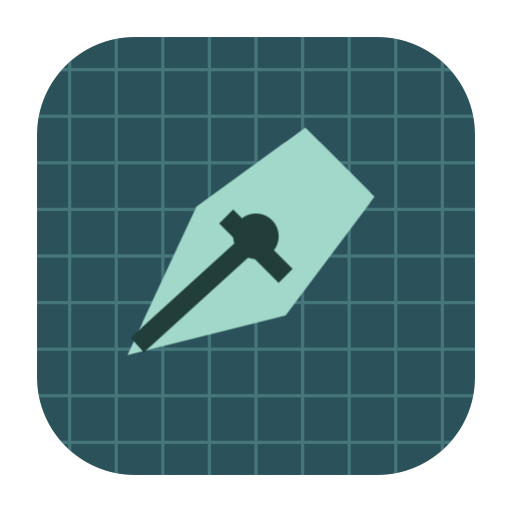
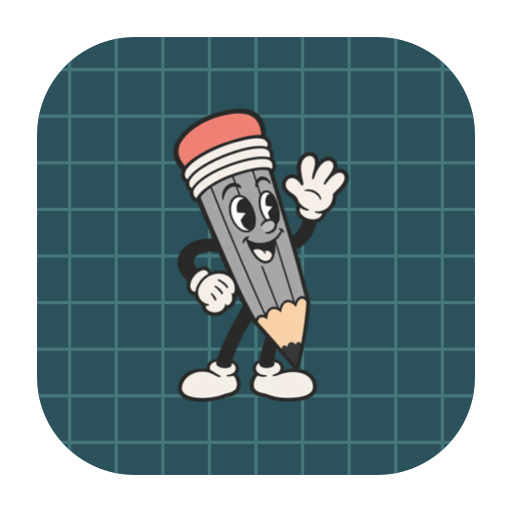
Bring the waving pencil and Drafting Desk cover to the default theme

Changed region(s): [[0.25, 0.1875, 0.75, 0.8125]]

diff --git a/web/guide.html b/web/guide.html
@@ -90,7 +90,7 @@
       To change your major, reopen Notebook Launcher from File on Mac or the notebook menu on the web.
     </p>
     <h2>Appearance and paper</h2>
-    <p>Choose a theme on the launcher or in Options. Default opens with the Drafting Room illustration. Try the inked pencil of 70s Cartoon, Tokyo Neon's route signs, Cyberpunk's amber instrument panel, or Pixelated's handheld lettering. Fonts and tool icons work offline.</p>
+    <p>Choose a theme on the launcher or in Options. Default opens with the Drafting Desk illustration and waving pencil. Try the inked pencil of 70s Cartoon, Tokyo Neon's route signs, Cyberpunk's amber instrument panel, or Pixelated's handheld lettering. Fonts and tool icons work offline.</p>
     <p>A new notebook starts on its theme’s stationery. In an existing notebook, open <b>Paper → Stationery</b> and choose This page or Notebook default. Grid, ruled, dotted and whiteboard paper each support the paper color you choose. Paper settings travel with the notebook and appear in its PDF.</p>
     <p>Pasted images and camera crops keep their source dimensions. When an image supplies a print density, Gridnote uses it. Other images use 96 pixels per inch. For a large image choose <b>Selection → Fit Image to Page</b>. Drag a corner to see millimetres and matching widths or heights when alignment guides are on. Undo restores the previous size.</p>
     <h2>Saving and sharing</h2>
@@ -121,7 +121,7 @@
       adjustments. Your pages, files and position are stored separately.
     </p>
     <footer>
-      Gridnote 1.2.0 · An open-source notebook for students · MIT License
+      Gridnote 1.2.1 · An open-source notebook for students · MIT License
     </footer>
   </main>
   <link rel="stylesheet" href="themes.css">

diff --git a/web/launcher.css b/web/launcher.css
@@ -28,7 +28,13 @@
 }
 .start-cover {
   height: clamp(80px, 16vh, 120px);
-  background: #eeece9 url("./assets/default-cover.svg") center/cover;
+  background: #213c40 url("./assets/default-cover.svg") center/cover;
+}
+.refined .start-cover {
+  height: auto;
+  aspect-ratio: 840 / 200;
+  background-size: contain;
+  background-repeat: no-repeat;
 }
 .start-content {
   padding: clamp(18px, 4vw, 30px);

diff --git a/web/index.html b/web/index.html
@@ -19,7 +19,7 @@
   <body class="launching">
     <header>
       <button id="files" title="Notebook menu" aria-label="Notebook menu">
-        <img src="./assets/pen-mark.svg" alt="" /><span id="name">Gridnote</span
+        <img src="./assets/default-pencil.png" alt="" /><span id="name">Gridnote</span
         ><span class="chevron">⌄</span>
       </button>
       <div class="spacer"></div>

diff --git a/Sources/Chrome.swift b/Sources/Chrome.swift
@@ -15,7 +15,7 @@ enum NotebookTheme: String, CaseIterable, Codable {
   }
   var mark: (String, String) {
     switch self {
-    case .standard: return ("pen-mark", "svg")
+    case .standard: return ("default-pencil", "png")
     case .cartoon: return ("pencil", "png")
     case .tokyo: return ("tokyo-pencil", "png")
     case .cyber: return ("cyber-pencil", "png")

diff --git a/docs/gallery/gallery.js b/docs/gallery/gallery.js
@@ -2,7 +2,7 @@ const designs = [
   [
     "Default",
     "default",
-    "A graphite drafting board, a quiet toolbar, and the familiar blue grid.",
+    "A waving pencil on a teal drafting desk. Open the notebook to write on the familiar blue grid.",
   ],
   [
     "70s Cartoon",

diff --git a/docs/gallery/index.html b/docs/gallery/index.html
@@ -15,7 +15,7 @@
           alt=""
           width="28"
           height="28"
-          src="../assets/pen-mark.svg"
+          src="../assets/default-pencil.png"
         />Gridnote</a
       ><a href="https://github.com/Kam1kaze00/Gridnote">GitHub ↗</a>
     </header>

diff --git a/web/appearance.js b/web/appearance.js
@@ -2,7 +2,7 @@
   const catalog = {
     Default: {
       id: "refined",
-      mark: "pen-mark.svg",
+      mark: "default-pencil.png",
       sprite: "tools",
       chrome: "#1a2027",
     },

diff --git a/docs/implementation.md b/docs/implementation.md
@@ -72,7 +72,7 @@ Before publishing, run **Test desktop downloads** on the candidate release with 
 
 ## Appearance
 
-Both clients store the interface theme locally and share the launcher and subject-panel assets. The first launch uses the Drafting Room illustration. Each of the five themes has a distinct toolbar mark, tool artwork and type. Pixelated uses discrete filled cells and Pixelify Sans. Tokyo Neon uses Barlow Semi Condensed. Cyberpunk uses IBM Plex Mono. The fonts and their OFL notices ship in the application. The notebook stores stationery separately so existing exercises retain their page design when they open on another device.
+Both clients store the interface theme locally and share the launcher and subject-panel assets. The first launch uses the Drafting Desk illustration. Each of the five themes has a distinct toolbar mark, tool artwork and type. Pixelated uses discrete filled cells and Pixelify Sans. Tokyo Neon uses Barlow Semi Condensed. Cyberpunk uses IBM Plex Mono. The fonts and their OFL notices ship in the application. The notebook stores stationery separately so existing exercises retain their page design when they open on another device.
 
 The Tokyo wayfinding palette draws on [Tokyo Metro’s route symbols](https://www.tokyometro.jp/lang_en/station/202303_number_en.pdf). The handheld design takes its four tones from the [original Game Boy display](https://www.nintendo.com/en-gb/Hardware/Nintendo-History/Game-Boy/Game-Boy-627031.html). The terminal uses [IBM Plex](https://www.ibm.com/plex/). Interface graphics follow [W3C’s guidance on non-text contrast](https://www.w3.org/WAI/WCAG22/Understanding/non-text-contrast.html).
 

diff --git a/README.md b/README.md
@@ -1,4 +1,4 @@
-![Gridnote Drafting Room, an illustrated pencil and construction lines on a drafting board](web/assets/default-cover.svg)
+![A waving pencil on the left and Gridnote on the right of a teal drafting desk](docs/images/drafting-desk.png)
 
 # Gridnote
 
@@ -49,7 +49,7 @@ Choose a theme in the launcher or open **Options → Theme** while writing. The 
 
 | Theme | What it looks like |
 | --- | --- |
-| [Default](https://kam1kaze00.github.io/Gridnote/gallery/#default) | Drafting Room. A graphite drafting board and a pale green pen nib. |
+| [Default](https://kam1kaze00.github.io/Gridnote/gallery/#default) | Drafting Desk. A waving pencil on a taped sketch, a teal board and a blue notebook grid. |
 | [70s Cartoon](https://kam1kaze00.github.io/Gridnote/gallery/#cartoon) | A grinning pencil, inked tools and a double margin on ivory paper. |
 | [Tokyo Neon](https://kam1kaze00.github.io/Gridnote/gallery/#tokyo) | Transit lettering, turquoise route lines and numbered station circles. |
 | [Cyberpunk](https://kam1kaze00.github.io/Gridnote/gallery/#cyber) | Amber keys, graphite panels and monospaced instrument lettering. |
